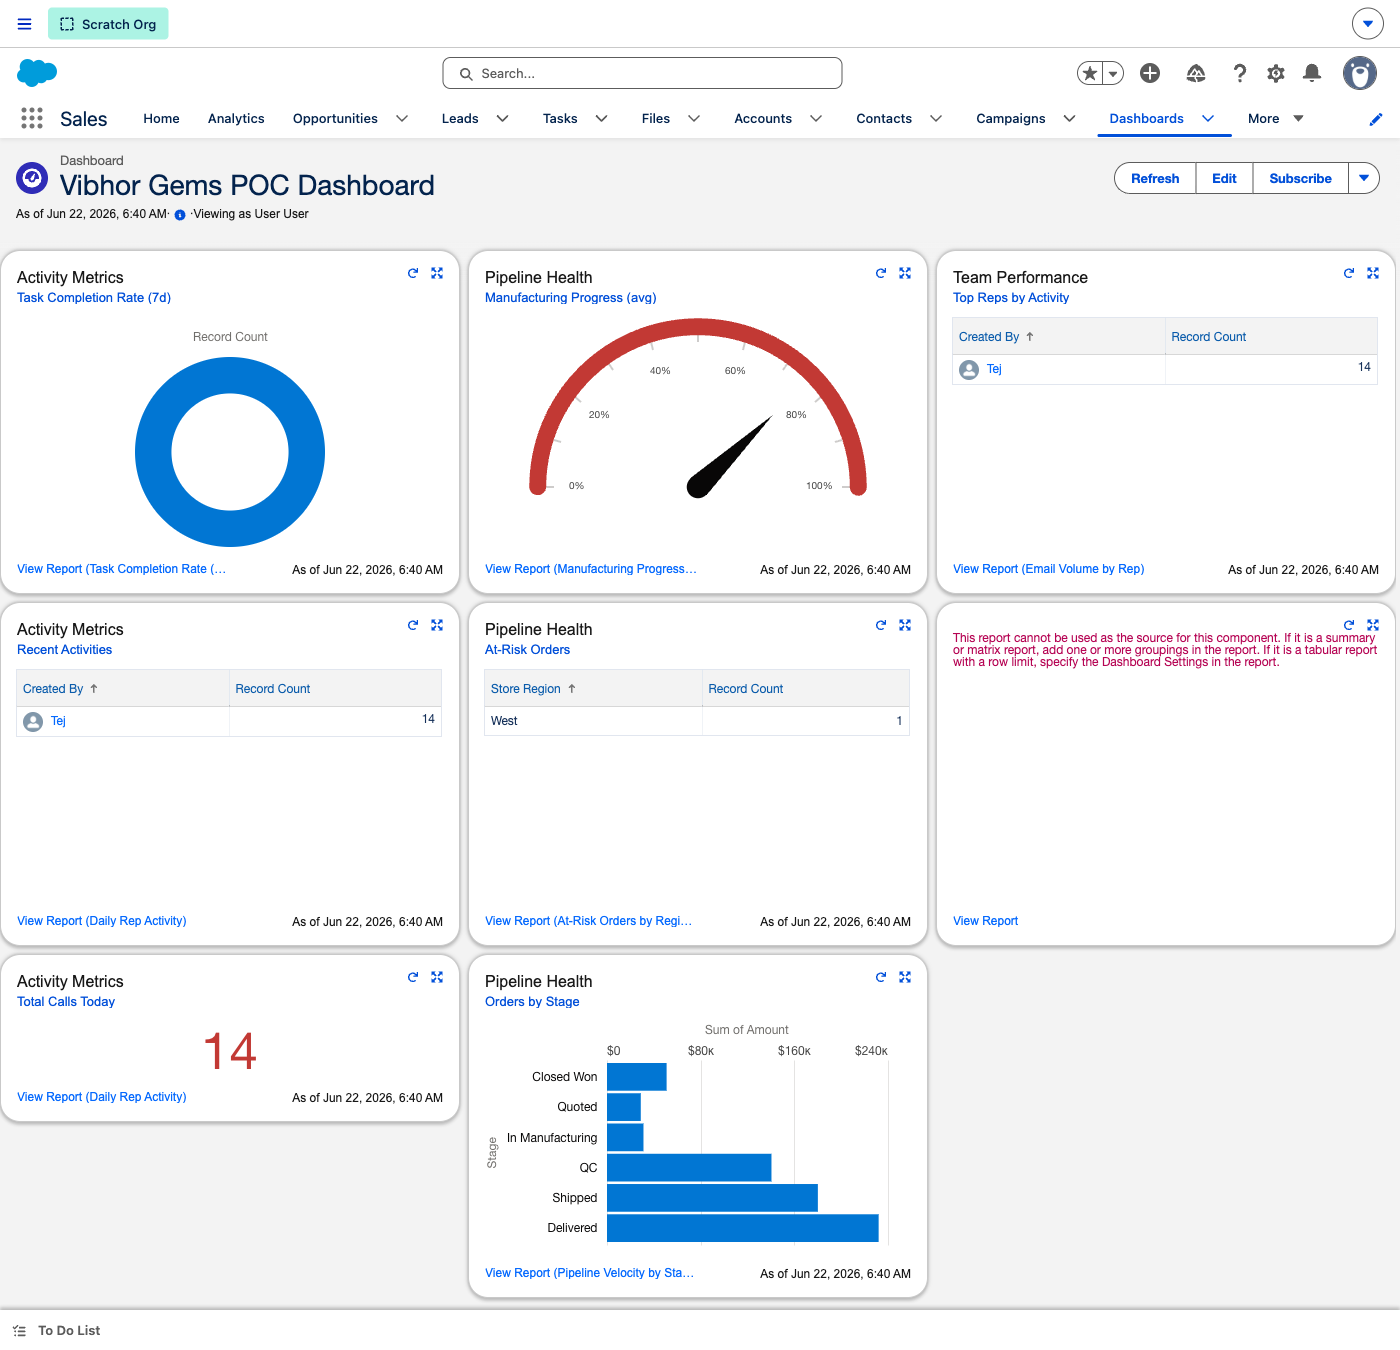
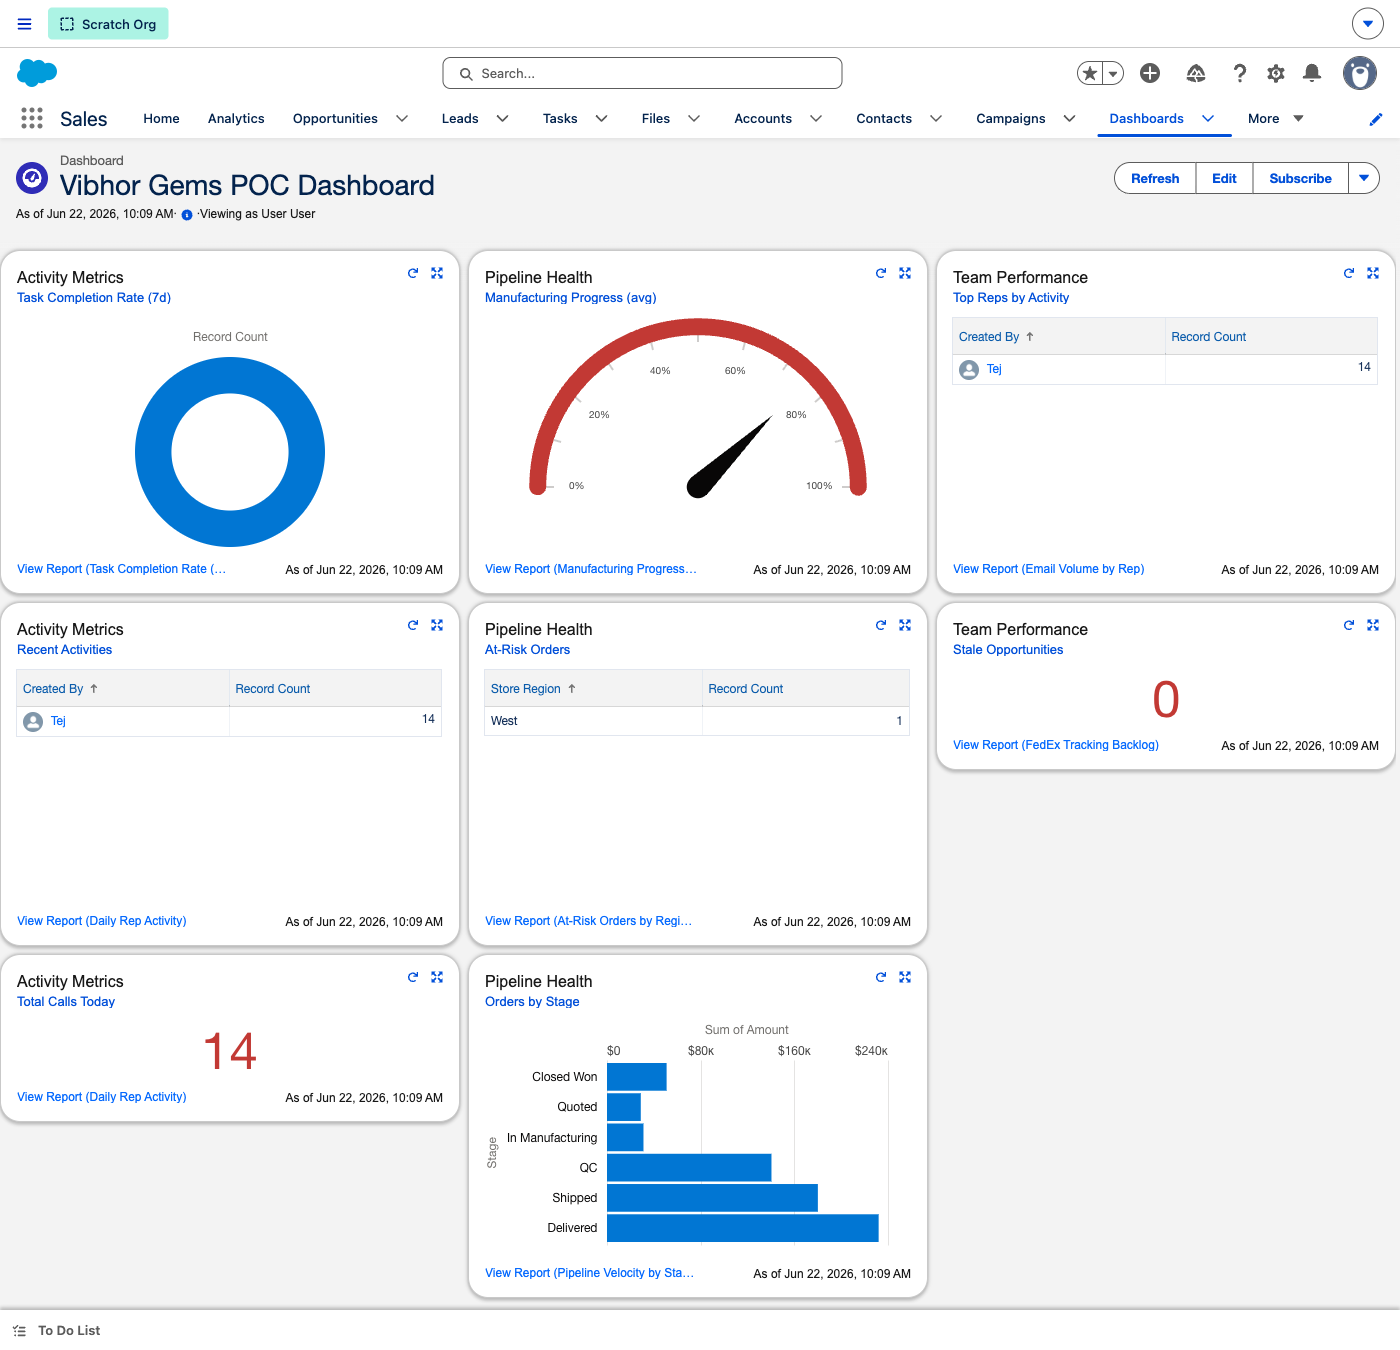
Fix dashboard: convert FedEx Tracking Backlog report to grouped summary; refresh screenshot + copy

diff --git a/index.html b/index.html
@@ -449,7 +449,7 @@
   <div class="shots">
     <div class="shot"><img src="screenshots/step-10-dashboard.png" alt="Vibhor Gems POC Dashboard"><div class="shot-label">Vibhor Gems POC Dashboard &mdash; live order, activity &amp; risk metrics</div></div>
   </div>
-  <div class="recovery"><strong>If a tile shows "No data"</strong> &mdash; click the dashboard <strong>Refresh</strong> button (top right); components cache for 60 minutes. One tile ("Email Volume by Rep") needs a grouping added to its source report &mdash; a 2-minute Phase-2 polish item, noted below.</div>
+  <div class="recovery"><strong>If a tile shows "No data"</strong> &mdash; click the dashboard <strong>Refresh</strong> button (top right); components cache for 60 minutes and re-run their reports live.</div>
 </div>
 
 <!-- AUTOMATIONS -->
@@ -525,8 +525,8 @@
   </div>
 
   <div class="qa">
-    <div class="q">"One dashboard tile shows an error &mdash; is the build broken?"</div>
-    <div class="a">No &mdash; seven of the eight tiles render live. One component ("Email Volume by Rep") points at a tabular report that needs a grouping or a row limit before it can drive a chart &mdash; a two-minute configuration fix we'll close in the polish pass. It doesn't affect any data or automation.</div>
+    <div class="q">"Can the dashboard slice the data more ways?"</div>
+    <div class="a">Easily &mdash; all eight tiles render live today (activity metrics, manufacturing progress, pipeline by stage, at-risk orders, team performance). Each is backed by a standard report you can re-group, filter, or chart differently in minutes, and you can add tiles for anything in the data model without code.</div>
   </div>
 
   <div class="qa">